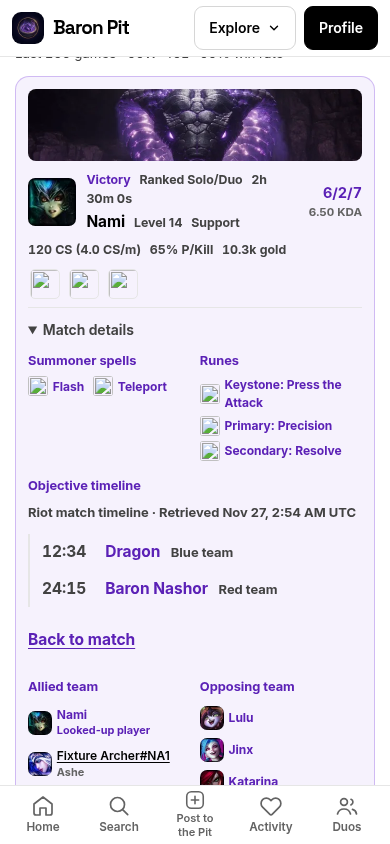
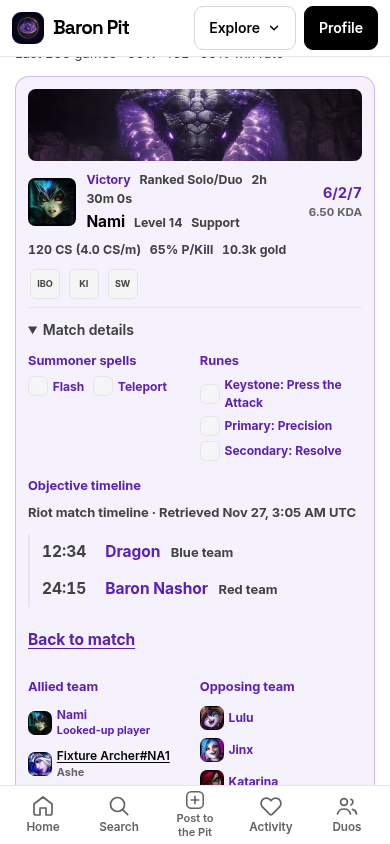
Record the reviewed mobile, accessibility and two-account evidence

diff --git a/docs/integrated-community/review.md b/docs/integrated-community/review.md
@@ -24,6 +24,12 @@ Threads provides feature references for chronological Following, topic search an
 - Chromium passed 24 views at 320 CSS pixels in light and dark themes with zero WCAG-tagged axe violations and zero horizontal overflow. The sample covered search, champion and item results, the champion directory and hub tabs, builds, player profile, private progress and a thread. Four checks covered open quote and build editors in both themes. Both baseline accessibility findings cleared. [Search](../../src/app/search/page.tsx) [Champion hub](../../src/app/rooms/%5Bslug%5D/champion-room.tsx) [Player profile](../../src/app/player/page.tsx)
 - Keyboard navigation worked from the mobile home search link through the Nami result, Discussions and Builds tabs, and back to the original search. Guest and signed-in search HTML excluded the previously exposed PUUID. Enter opened the quote editor, Escape closed it and restored focus to the trigger, and the editor reopened for a draft. The build action preserved the chosen champion. The private Progress filter worked from the keyboard and redirected a guest to sign-in. [Quote editor](../../src/components/quote-control.tsx) [Build editor entry](../../src/app/builds/page.tsx) [Private progress](../../src/app/playbook/page.tsx)
 
+## Artwork and feed rerun
+
+With Data Dragon artwork blocked, the first optimized rerun found nine item links per theme whose accessible names omitted the visible fallback initials. The fix uses the same abbreviation for the icon and the item link while retaining the full item name. Fourteen focused tests and scoped lint passed. [Icon and item fallback test](../../src/components/room-artwork.test.ts)
+
+The final optimized build `SZ8sBJB8f7cDt9rXpFk7u` passed all 28 Chromium views at 320 CSS pixels in light and dark themes, with zero WCAG-tagged axe violations or horizontal overflow. The sample included both Home tabs after the feed query change and both open editors. With Data Dragon artwork still blocked, the champion room loaded its same-origin banner fallback and named item results retained readable initials. The search, quote, build and private Progress keyboard journeys passed again. [Champion banner fallback](../../src/components/room-artwork.tsx) [Accessible item links](../../src/components/item-icons.tsx)
+
 ## Evidence boundaries
 
 The accessibility scan and keyboard checks cover the listed Chromium views. They do not establish complete screen-reader or cross-browser conformance. The champion overview describes observed appearances across supported public queues and mixed patches. The ranked record, recent match sample, archived rank and player-authored follow-up each have their own scope. The fixture uses synthetic matches and accounts. No production writes, live provider capacity, or real player outcomes were tested.

diff --git a/docs/integrated-community/README.md b/docs/integrated-community/README.md
@@ -37,6 +37,10 @@ Enabling native quotes changed the database planner’s estimate for the newest 
 
 These are ten warm samples on shared local hardware and an in-memory PostgreSQL fixture. They time application database readers. End-user latency on Neon and Vercel includes different network, compute and rendering costs. The fixture returned the same 30-post page shape using four queries, had zero duplicate post IDs across pages, and made zero outbound vendor calls. To inspect the query plan, run `CAPACITY_PLAN=feed npx vitest run --config scripts/capacity/vitest.config.ts`. [Harness and data distribution](../match-discussion/capacity.md)
 
+## Verified candidate
+
+The optimized candidate passed 419 tests in 88 Vitest files, production build and art checks, TypeScript, ESLint, 237 built-app HTTP journeys and 16 Chromium journeys. Both the original two-account match workflow and the new champion/item/build workflow ran against fresh, isolated fixture databases. Independent checks covered 28 narrow-screen views in light and dark themes with zero detected WCAG-tagged axe failures or horizontal overflow. Separate JavaScript-disabled checks verified readable names, real local artwork and working links when the Riot CDN was unreachable. [Browser screenshots](demo.md) · [Independent checks and limits](review.md)
+
 ## Review and rollout
 
 1. Reproduce the optimized app with the local isolated PostgreSQL fixture. Run type checking, Vitest, lint, the production build, built-app HTTP smoke and the browser walkthrough. The reference player, email sessions and published content in the walkthrough are synthetic. [Walkthrough and screenshots](demo.md) · [CHECKER findings](review.md) · [CHALLENGER findings](challenger.md)
